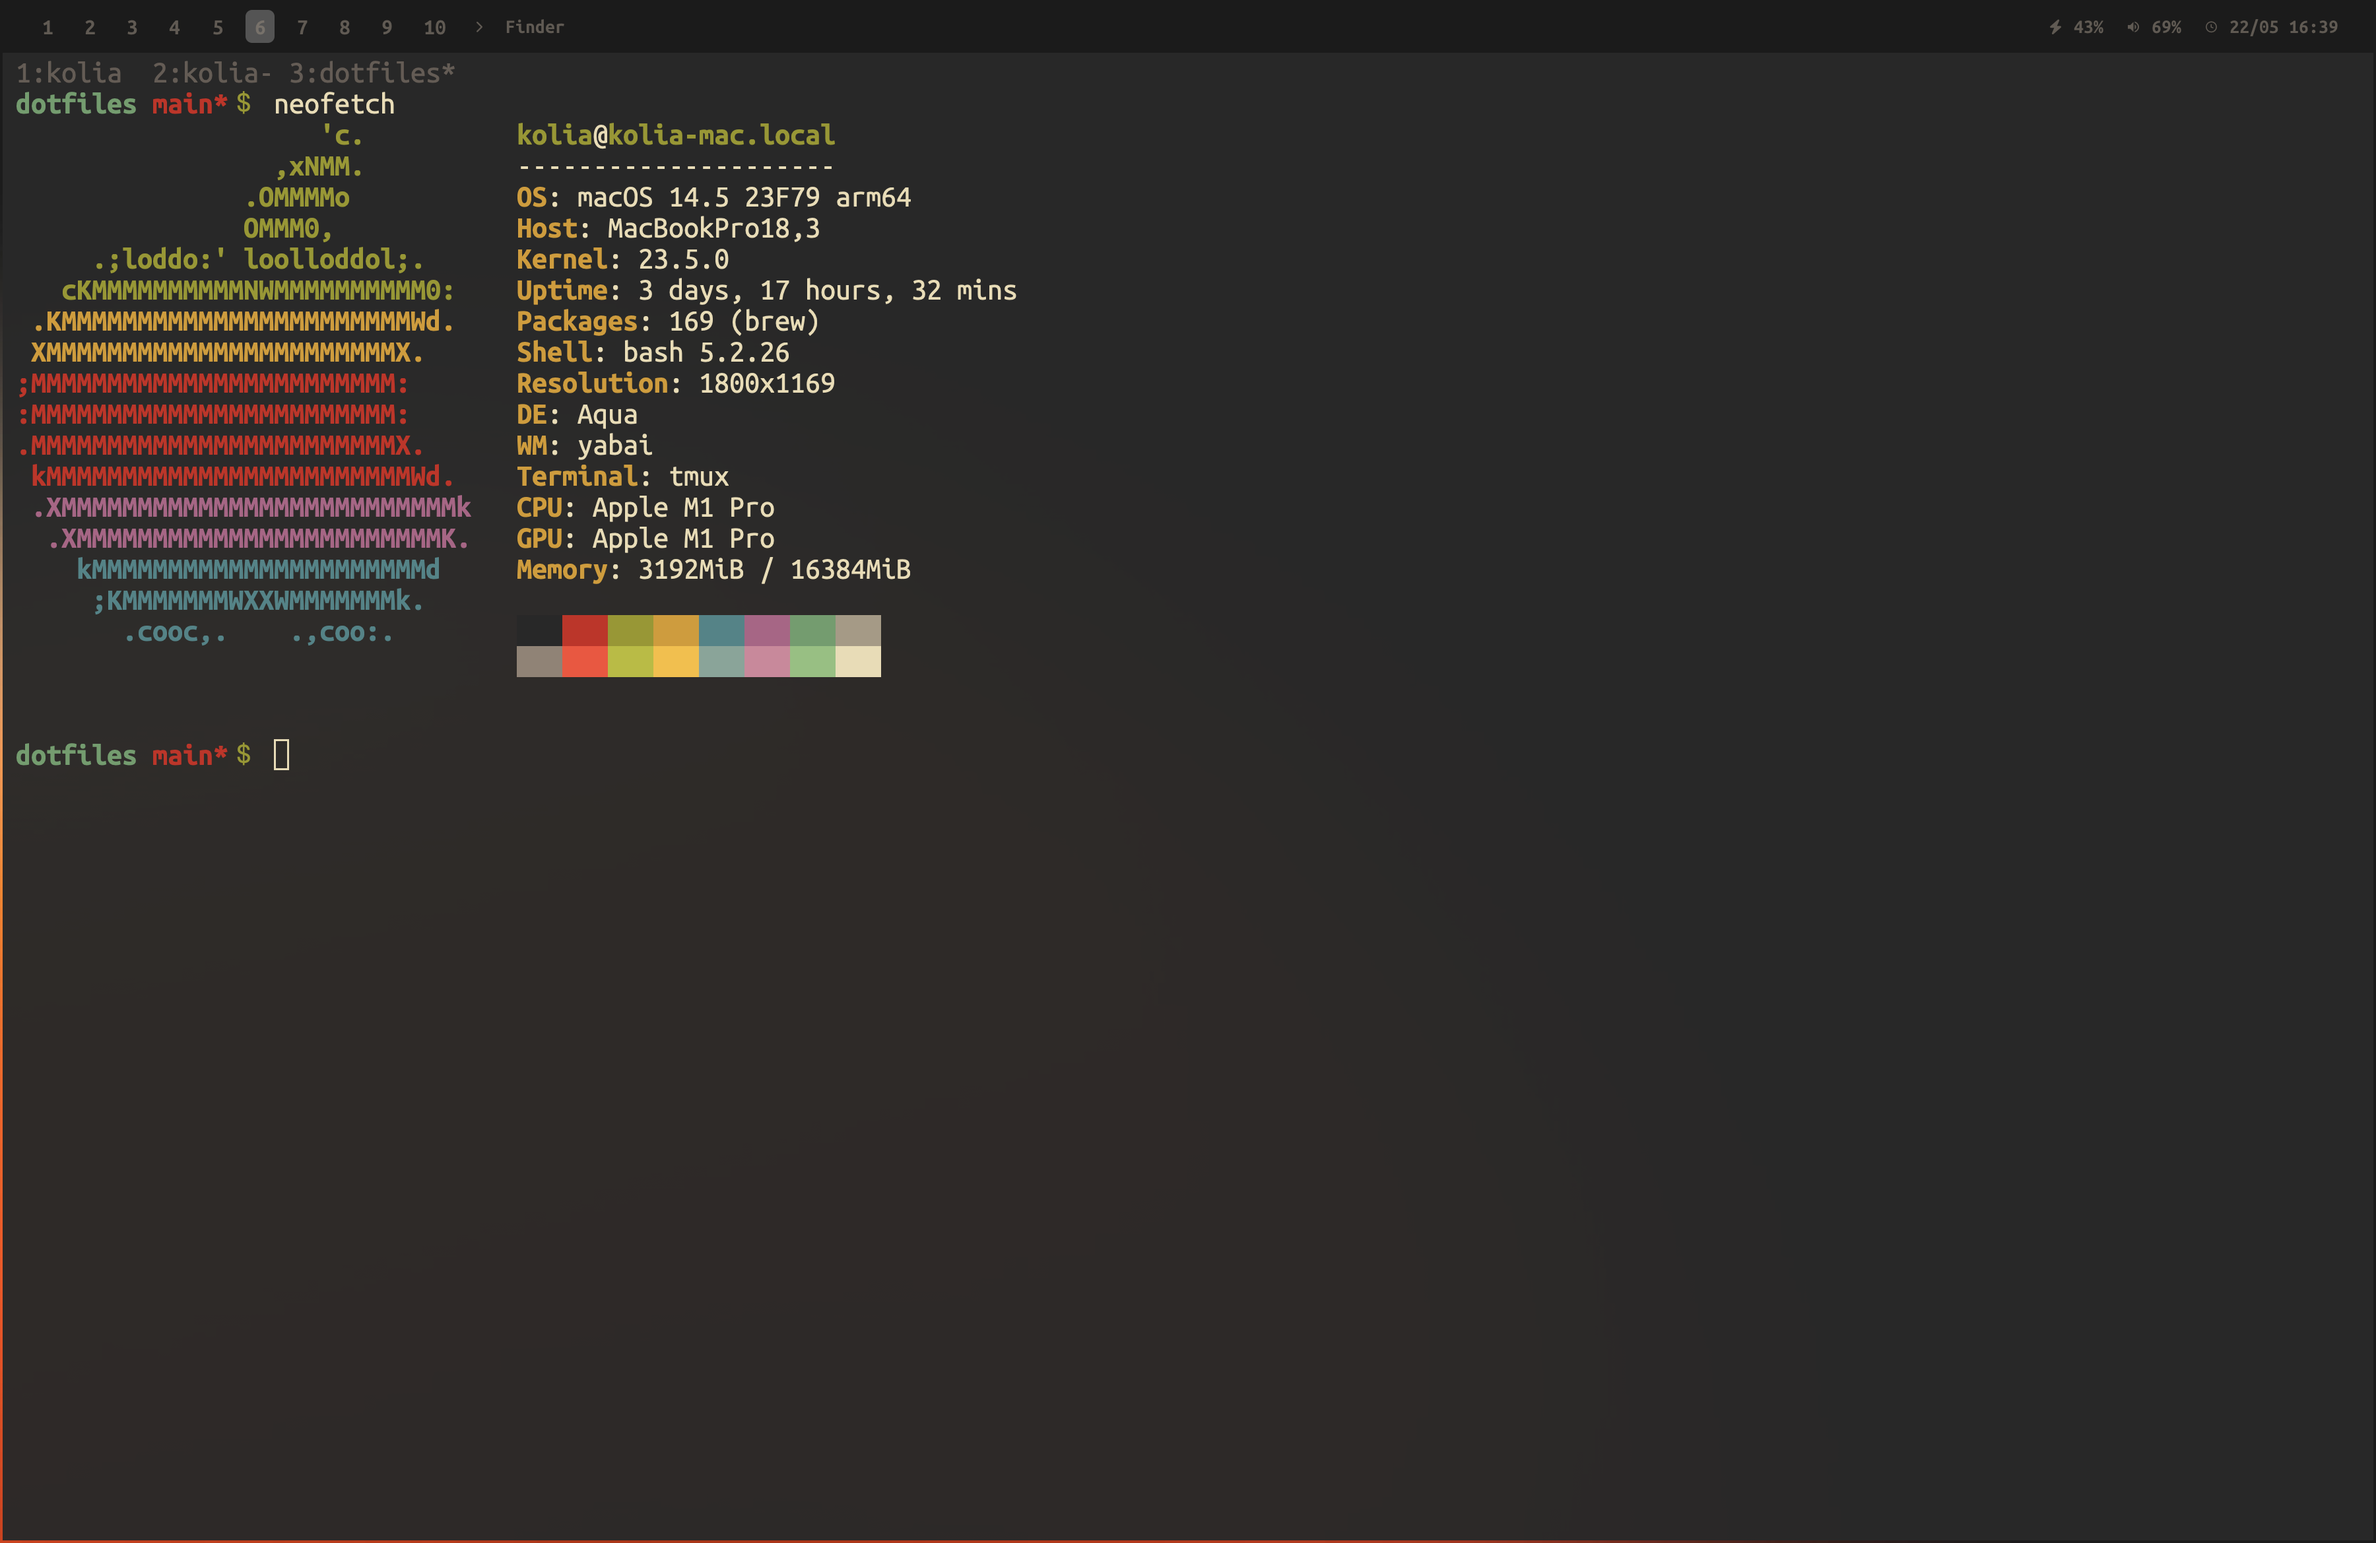
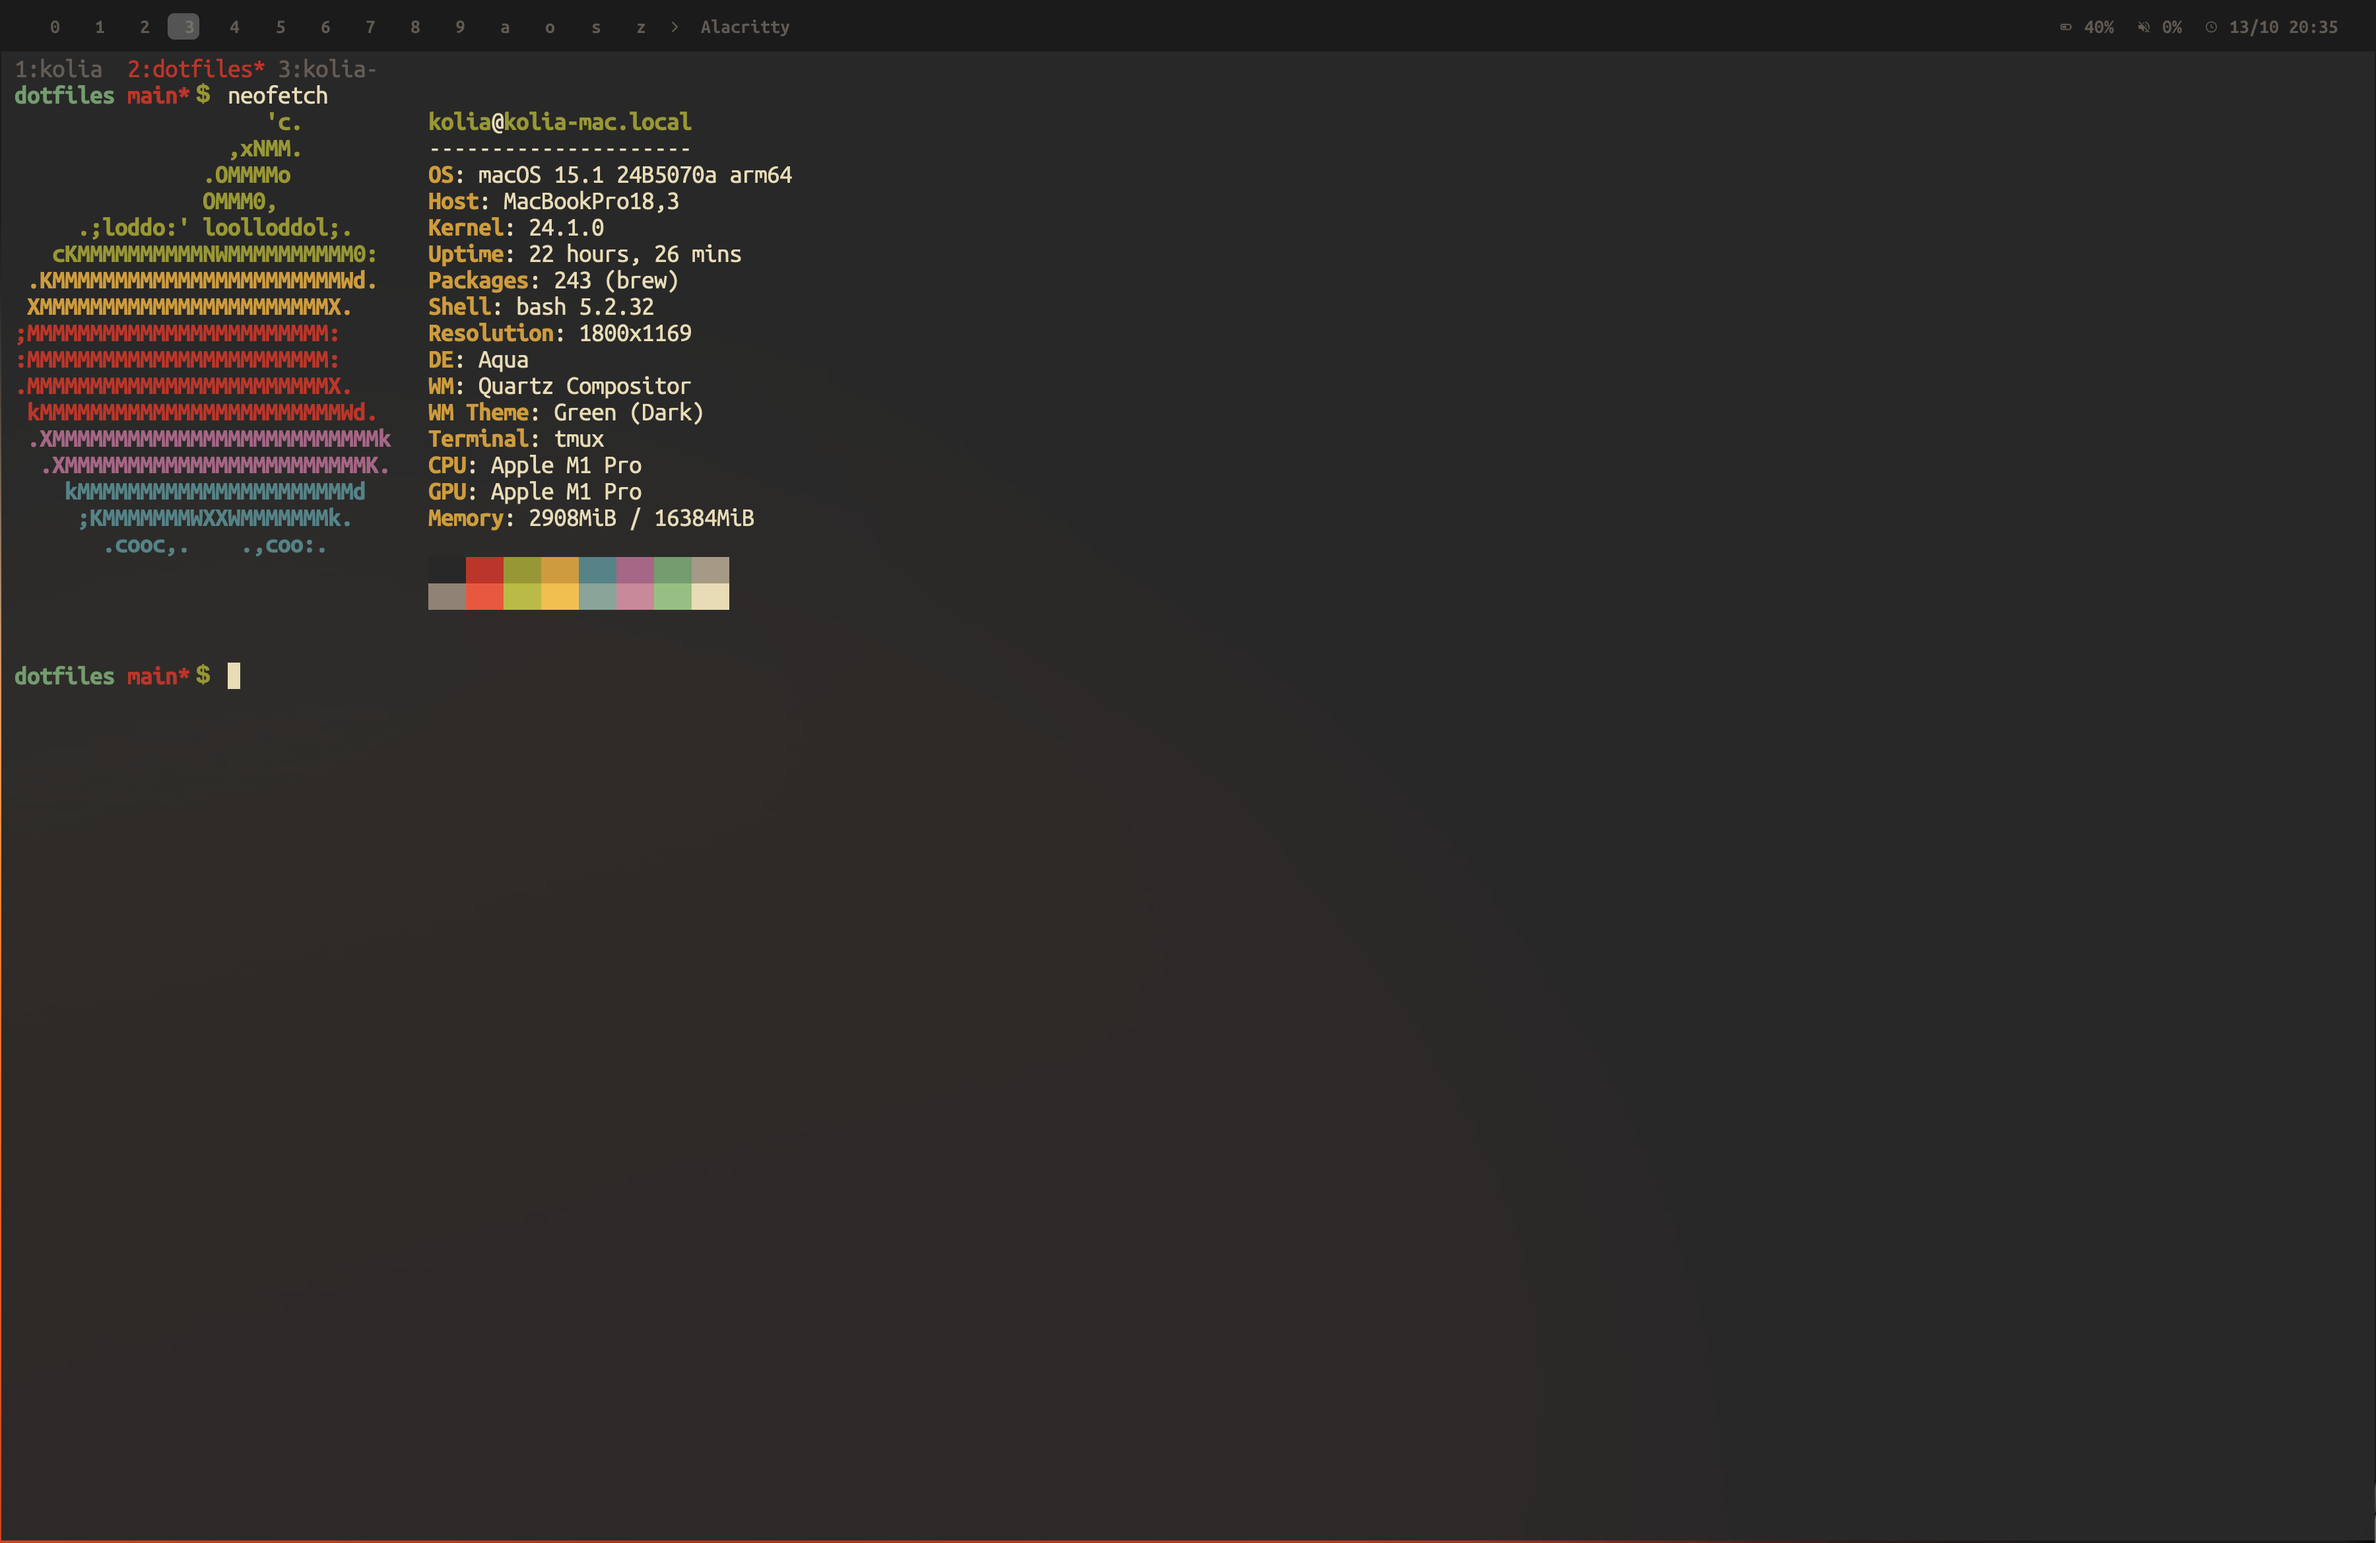
clean up aerospace config

diff --git a/README.md b/README.md
@@ -4,12 +4,12 @@
 
 ## setup
 
-* window manager: yabai + skhd
-* terminal: alacritty/kitty
+* window manager: aerospace+sketchybar
+* terminal: alacritty
 * editor: neovim + lazy
 * shell: bash
 * prompt: starship
-* terminal multiplexer: tmux/kitty
+* terminal multiplexer: tmux
 * git: lazygit
 * browser: Arc
 * theme: gruvbox dark
